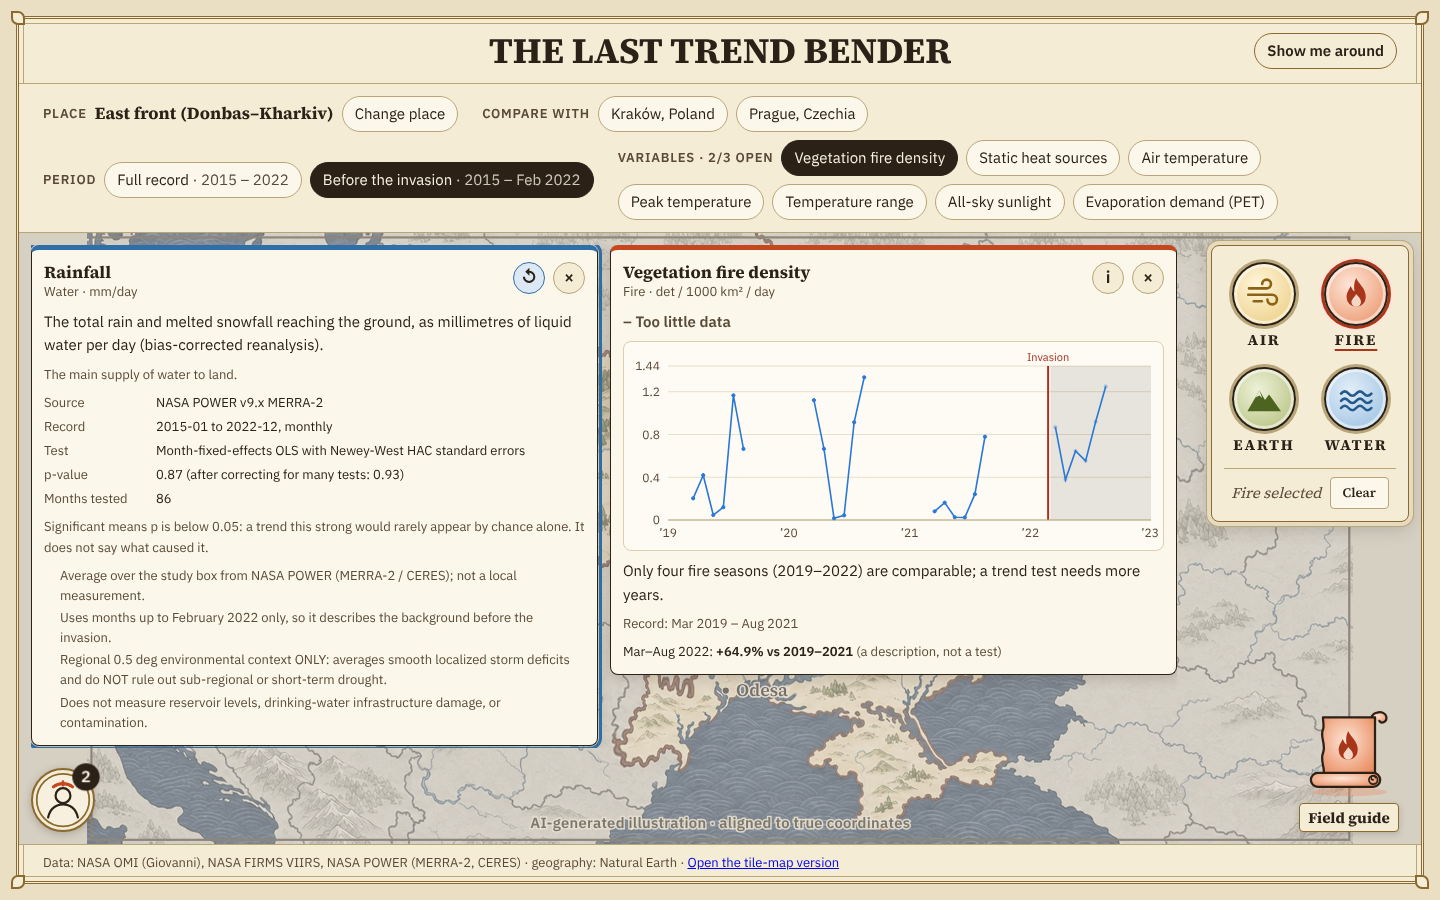
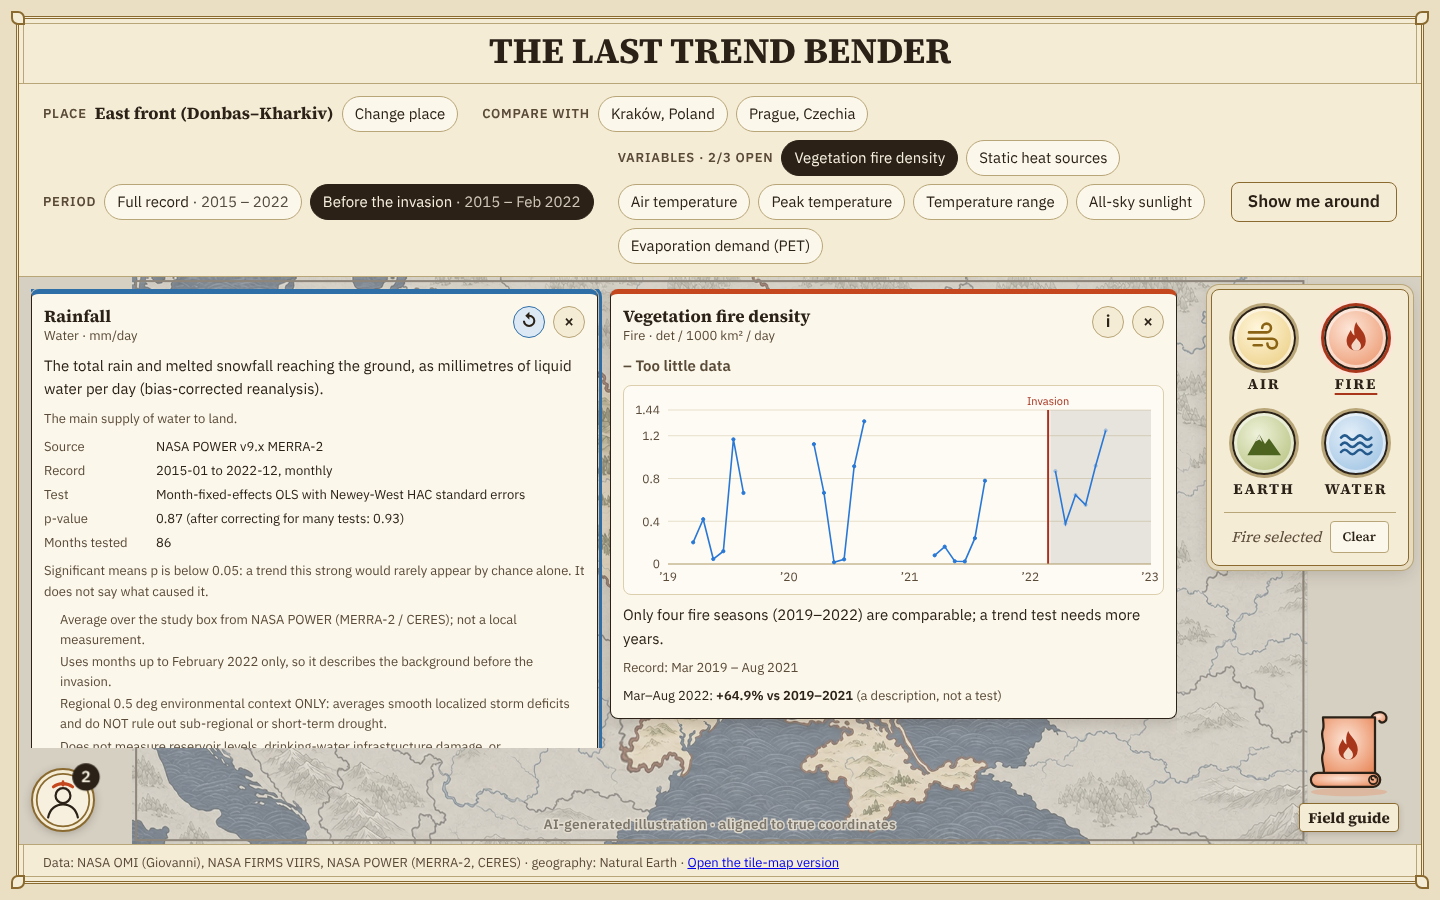
Replace Start guided example with Show me around
- The tour button takes the guided example's place on the start screen and sits
  at the end of the evidence bar; the header button and the example are removed
- Tests open Kyiv NO2, wind and cloud by hand; docs updated

Claude-Session: https://claude.ai/code/session_012Us5a758WNvjHB2vLoi81e

diff --git a/frontend/src/features/investigate/InvestigationAtlas.tsx b/frontend/src/features/investigate/InvestigationAtlas.tsx
@@ -24,14 +24,6 @@ export const MAX_CARDS = 3
 export const COMPARE_PLACES = ['poland_krakow', 'czechia_prague'] as const
 const ALL_ELEMENTS: ElementId[] = ['air', 'fire', 'land', 'water']
 
-/** The guided example: Kyiv NO₂ beside the two weather variables that most affect it. */
-export const GUIDED_EXAMPLE = {
-  place: 'kyiv_no2_box',
-  window: 'full_record' as WindowId,
-  element: 'air' as ElementId,
-  cards: ['no2_mean_molec_cm2', 'ws10m', 'cloud_amt'],
-}
-
 interface Props {
   cases: CatalogBundle
   catalog: VariableCatalog
@@ -60,7 +52,6 @@ export function InvestigationAtlas({ cases, catalog, trends, no2Regional = NO_RE
   /** The card the avatar reads (metric and place); the latest opened, or the one last clicked. */
   const [focus, setFocus] = useState<{ metric: string; place: string | null } | null>(null)
   const [notice, setNotice] = useState<string | null>(null)
-  const [example, setExample] = useState(false)
   const [scrollOpen, setScrollOpen] = useState(false)
   const [scrollTab, setScrollTab] = useState<'variables' | 'help'>('variables')
   const [insightsOpen, setInsightsOpen] = useState(false)
@@ -82,7 +73,6 @@ export function InvestigationAtlas({ cases, catalog, trends, no2Regional = NO_RE
   )
 
   const edit = () => {
-    setExample(false)
     setNotice(null)
   }
   const choosePlace = (id: string) => {
@@ -102,18 +92,6 @@ export function InvestigationAtlas({ cases, catalog, trends, no2Regional = NO_RE
     setCards((c) => [...c, v.metric_id])
     setFocus({ metric: v.metric_id, place })
   }
-  const startExample = () => {
-    setPlace(GUIDED_EXAMPLE.place)
-    setWindow(GUIDED_EXAMPLE.window)
-    setElement(GUIDED_EXAMPLE.element)
-    setCards(GUIDED_EXAMPLE.cards)
-    setFocus({ metric: GUIDED_EXAMPLE.cards[0] ?? '', place: GUIDED_EXAMPLE.place })
-    setCompare(null)
-    setNotice(null)
-    setPhase('investigate')
-    setExample(true)
-    setInsightsOpen(true)
-  }
 
   const cardState = (v: VariableEntry, at: string | null = place): SeriesState => {
     const s = states[endpointFor(v, at, no2Places)]
@@ -130,7 +108,7 @@ export function InvestigationAtlas({ cases, catalog, trends, no2Regional = NO_RE
   const speech = speechText({ phase, place, element, notice, openVars })
   // One insight per open card and place, built from that card's own fields; the focused card first.
   const insightGroups: InsightGroup[] = shownPlaces.map((at) => ({
-    label: compare && at ? placeLabel(at) : example ? 'Guided example: Kyiv city' : null,
+    label: compare && at ? placeLabel(at) : null,
     items: [...openVars]
       .sort((a, b) => Number(b === focusVar && at === focusPlace) - Number(a === focusVar && at === focusPlace))
       .filter((v) => cardState(v, at).status === 'ready')
@@ -153,9 +131,6 @@ export function InvestigationAtlas({ cases, catalog, trends, no2Regional = NO_RE
       <DecorativeFrame className={pageStyles.frame}>
         <header className={pageStyles.header}>
           <TitleBadge />
-          <button type="button" className={styles.tourButton} onClick={() => startTour(phase)} data-testid="show-me-around">
-            Show me around
-          </button>
         </header>
 
         <div className={pageStyles.controlsSlot}>
@@ -170,7 +145,7 @@ export function InvestigationAtlas({ cases, catalog, trends, no2Regional = NO_RE
                 <PeriodGroup window={window} onChange={(w) => { edit(); setWindow(w) }} label="2 · Period" />
                 <div className={styles.actions}>
                   <button type="button" className={styles.primary} onClick={investigate} data-testid="investigate" data-tour="investigate">Investigate</button>
-                  <button type="button" className={styles.secondary} onClick={startExample} data-testid="guided-example">Start guided example</button>
+                  <button type="button" className={styles.secondary} onClick={() => startTour('choose')} data-testid="show-me-around">Show me around</button>
                 </div>
               </>
             ) : (
@@ -183,6 +158,9 @@ export function InvestigationAtlas({ cases, catalog, trends, no2Regional = NO_RE
                 <CompareGroup compare={compare} onChange={(c) => { edit(); setCompare(c) }} />
                 <PeriodGroup window={window} onChange={(w) => { edit(); setWindow(w) }} label="Period" />
                 <VariablePicker catalog={catalog} element={element} place={place} no2Places={no2Places} cards={cards} onToggle={toggleCard} />
+                <div className={styles.actions}>
+                  <button type="button" className={styles.secondary} onClick={() => startTour('investigate')} data-testid="show-me-around">Show me around</button>
+                </div>
               </>
             )}
           </div>
@@ -457,7 +435,7 @@ function HowToRead() {
 function speechText({ phase, place, element, notice, openVars }: { phase: Phase; place: string | null; element: ElementId | null; notice: string | null; openVars: VariableEntry[] }): string | null {
   if (notice) return notice
   if (phase === 'choose') {
-    if (!place) return 'Press a place on the map, or start the guided example. Each place is a study box; its true size appears when you point at it.'
+    if (!place) return 'Press a place on the map, or press Show me around for a quick tour. Each place is a study box; its true size appears when you point at it.'
     return `${placeLabel(place)} is chosen. Pick a period and press Investigate.`
   }
   if (!openVars.length) return element ? 'Pick variables in the bar above.' : 'Choose an element at the top right. The field guide explains its variables.'

diff --git a/frontend/e2e/atlas.spec.ts b/frontend/e2e/atlas.spec.ts
@@ -8,6 +8,14 @@ async function open(page: Page) {
   await expect(page.getByTestId('place-kyiv_no2_box')).toBeVisible()
 }
 
+/** Kyiv city, full record, Air: NO₂ beside wind and cloud. */
+async function openKyivAir(page: Page) {
+  await page.getByTestId('place-kyiv_no2_box').click()
+  await page.getByTestId('investigate').click()
+  await page.getByTestId('element-air').click()
+  for (const id of ['no2_mean_molec_cm2', 'ws10m', 'cloud_amt']) await page.getByTestId(`variable-${id}`).click()
+}
+
 test('phase 1: fixed illustrated map with place pins, no tiles, no cards', async ({ page }) => {
   const tiles: string[] = []
   page.on('request', (r) => { if (/tile|arcgisonline/.test(r.url())) tiles.push(r.url()) })
@@ -143,22 +151,24 @@ test('dated periods and the Kraków comparison: temperature data, fire not colle
   await expect(other.getByTestId('card-t2m').getByTestId('trend-chart')).toBeVisible()
 })
 
-test('guided example: Kyiv NO₂ with wind and cloud, numbers from the API', async ({ page }) => {
+test('Kyiv NO₂ with wind and cloud: numbers from the API, insights from the portrait', async ({ page }) => {
   await page.setViewportSize({ width: 1440, height: 900 })
   await open(page)
-  await page.getByTestId('guided-example').click()
+  await openKyivAir(page)
   const no2 = page.getByTestId('card-no2_mean_molec_cm2')
   await expect(no2.getByTestId('card-verdict')).toHaveText('○ No significant trend')
   await expect(no2.getByTestId('card-rate')).toContainText('−0.0418 ×10¹⁵ molecules/cm² per year')
   await expect(no2.getByTestId('card-seasonal')).toContainText('−28.0% vs 2015–2019')
   await expect(page.getByTestId('card-ws10m').getByTestId('card-verdict')).toBeVisible()
   await expect(page.getByTestId('card-cloud_amt').getByTestId('card-verdict')).toBeVisible()
-  // the example opens the guide's insights, one per card
+  // the portrait opens the guide's insights, one per card
+  await expect(page.getByTestId('avatar-badge')).toHaveText('3')
+  await page.getByTestId('avatar-button').click()
   const panel = page.getByTestId('avatar-panel')
   await expect(panel.getByTestId('insight-no2_mean_molec_cm2-kyiv_no2_box')).toContainText('averaged 28% below the 2015–2019 average')
   await expect(page.getByTestId('avatar-badge')).toHaveText('3')
   await page.waitForTimeout(400)
-  await page.screenshot({ path: `${SHOTS}/2-guided-example-desktop.png` })
+  await page.screenshot({ path: `${SHOTS}/2-kyiv-insights-desktop.png` })
   // folded back to the portrait, the guide never hides a chart at this size
   await page.getByTestId('avatar-close').click()
   await expect(panel).toHaveCount(0)
@@ -176,10 +186,10 @@ test('guided example: Kyiv NO₂ with wind and cloud, numbers from the API', asy
 test('mobile: cards stack under the map with no sideways scroll', async ({ page }) => {
   await page.setViewportSize({ width: 390, height: 844 })
   await open(page)
-  await page.getByTestId('guided-example').click()
+  await openKyivAir(page)
   await expect(page.getByTestId('card-no2_mean_molec_cm2').getByTestId('card-verdict')).toBeVisible()
   expect(await page.evaluate(() => document.documentElement.scrollWidth - window.innerWidth)).toBeLessThanOrEqual(0)
-  await page.screenshot({ path: `${SHOTS}/4-guided-example-mobile.png`, fullPage: true })
+  await page.screenshot({ path: `${SHOTS}/4-cards-mobile.png`, fullPage: true })
 })
 
 test('the field guide: variables of the chosen element with definitions, how to read, Escape closes', async ({ page }) => {
@@ -232,8 +242,7 @@ test('Show me around: a tour of the current controls, without changing anything,
   await expect(popover).toHaveCount(0)
 
   // after Investigate the tour explains the evidence screen and skips nothing on screen
-  await page.getByTestId('guided-example').click()
-  await page.getByTestId('avatar-close').click()
+  await openKyivAir(page)
   await page.getByTestId('show-me-around').click()
   await expect(popover).toContainText('Variables')
   await expect(popover).toContainText('1 of 7')

diff --git a/frontend/src/features/investigate/Investigation.test.tsx b/frontend/src/features/investigate/Investigation.test.tsx
@@ -150,16 +150,20 @@ describe('phase 2: variables as cards', () => {
     expect(screen.getAllByRole('article')).toHaveLength(2)
   })
 
-  it('the guided example opens Kyiv NO₂ with wind and cloud, and the guide quotes the card', async () => {
+  it('Kyiv NO₂ with wind and cloud: the portrait quotes each card', async () => {
     serve()
     const user = await openAtlas()
-    await user.click(screen.getByTestId('guided-example'))
+    await user.click(screen.getByTestId('place-kyiv_no2_box'))
+    await user.click(screen.getByTestId('investigate'))
+    await user.click(screen.getByTestId('element-air'))
+    for (const id of ['no2_mean_molec_cm2', 'ws10m', 'cloud_amt']) await user.click(screen.getByTestId(`variable-${id}`))
     const no2 = screen.getByTestId('card-no2_mean_molec_cm2')
     expect(await within(no2).findByTestId('card-verdict')).toHaveTextContent('No significant trend')
     expect(within(no2).getByTestId('card-seasonal')).toHaveTextContent('−28.0% vs 2015–2019')
     expect(screen.getByTestId('card-ws10m')).toBeInTheDocument()
     expect(screen.getByTestId('card-cloud_amt')).toBeInTheDocument()
-    // the example opens the guide's insights: one per card, read from the card's own fields
+    // the portrait opens the guide's insights: one per card, read from the card's own fields
+    await user.click(screen.getByTestId('avatar-button'))
     const panel = await screen.findByTestId('avatar-panel')
     expect(await within(panel).findByTestId('insight-no2_mean_molec_cm2-kyiv_no2_box')).toHaveTextContent('did not detect a clear trend over Mar 2015 – Aug 2022')
     expect(within(panel).getByTestId('insight-no2_mean_molec_cm2-kyiv_no2_box')).toHaveTextContent('Separately, March–August 2022 averaged 28% below')

diff --git a/frontend/src/features/investigate/InvestigationAtlas.module.css b/frontend/src/features/investigate/InvestigationAtlas.module.css
@@ -82,10 +82,3 @@
   background: rgba(251, 247, 234, 0.95); border: 1px solid var(--color-line-strong); border-radius: var(--radius-sm); color: var(--color-ink); pointer-events: none;
 }
 .outsideMarker[data-off-map='true'] { transform: translate(0, -50%); border-style: dashed; }
-
-.tourButton {
-  position: absolute; right: var(--space-5); top: 50%; transform: translateY(-50%); min-height: 36px; padding: 0 var(--space-3);
-  cursor: pointer; font: inherit; font-size: var(--text-sm); font-weight: 600;
-  background: var(--color-parchment); color: var(--color-ink); border: 1.5px solid var(--color-gilt); border-radius: 999px;
-}
-.tourButton:focus-visible { outline: 3px solid var(--focus-ring); outline-offset: 2px; }

diff --git a/docs/submission/status-report.md b/docs/submission/status-report.md
@@ -23,7 +23,7 @@ Deadline: **Sunday 15 November, 23:59 local time**. Press "Submit for Judging" b
 | Test significance (t-test, Mann-Kendall, confidence intervals) | Done | Regression t-test with robust errors, confidence interval, Mann-Kendall stored as a check, correction for many tests |
 | What, where, how much, is it significant | Done | The four parts of each card |
 | Simple definitions of the variables | Done, in draft | 25 definitions on the card backs; not yet reviewed by the team |
-| Demonstration examples the user can watch | Partly | One guided example (Kyiv). The challenge says "a couple" |
+| Demonstration examples the user can watch | Partly | "Show me around" tours of both screens; the demo deck walks through Kyiv. No playable example in the app |
 | Trends that differ between regions | Done | Prague falls significantly; Ukrainian places do not |
 | Non-significant trends are still interesting | Done | Shown with their rate and an explanation |
 | Seasonal cycle removed | Done | One offset per calendar month |
@@ -42,13 +42,13 @@ Deadline: **Sunday 15 November, 23:59 local time**. Press "Submit for Judging" b
 
 - Data pipeline for NO₂ (8 places), fire, and 22 weather, water and earth variables.
 - Trend verdicts for all 392 place × variable × period combinations (368 tested, 24 with too little data).
-- Atlas web app: two-step flow, cards, guided example, "How to read" guide, mobile layout.
+- Atlas web app: two-step flow, cards, compare view, portrait insights, field guide, "Show me around" tour.
 - Tests: 48 analysis, 66 backend, 50 frontend unit, 23 browser. All pass, including the fire tests with the raw download.
 
 ## Not complete
 
 1. **Hosted demo link.** The app needs a backend, so it is not yet a single public URL.
-2. **Second guided example** (the city comparison).
+2. **A playable example in the app** (removed in favour of the tour; the deck covers it).
 3. **Team review of the 25 definitions.**
 4. **Husam's review** of decisions D4, D5 and D6.
 5. **An "after the invasion" view** and **one picker for all variables**: offered, not built.

diff --git a/frontend/README.md b/frontend/README.md
@@ -9,7 +9,7 @@ Requires Node ≥ 20.19 and, for the backend, Python with `pip install -r backen
 
 On Windows use `python` (not `python3`) for the backend and open `http://localhost:5173/#/atlas`.
 
-**Atlas flow:** phase 1, press a place pin (or Kraków/Prague in the bar), pick a period, press Investigate (or *Start guided example*). Phase 2, choose an element (top right), tick up to 4 variables; each opens as a card: timeline with the invasion marked, verdict (● significant, ○ not significant, – not assessed), rate with 95% range, descriptive Mar–Aug 2022 change; *i* turns the card over (definition, source, test, limits). Verdicts come from `/api/trends` (`docs/trend-results-schema.md`); without a result a card says "Not assessed".
+**Atlas flow:** phase 1, press a place pin (or Kraków/Prague in the bar), pick a period, press Investigate (or *Show me around* for a tour of the controls). Phase 2, choose an element (top right), tick up to 4 variables; each opens as a card: timeline with the invasion marked, verdict (● significant, ○ not significant, – not assessed), rate with 95% range, descriptive Mar–Aug 2022 change; *i* turns the card over (definition, source, test, limits). Verdicts come from `/api/trends` (`docs/trend-results-schema.md`); without a result a card says "Not assessed".
 
 Who does what next: [`docs/team-handoff.md`](../docs/team-handoff.md). Plain definitions of the 25 variables: [`docs/variable-definitions.md`](../docs/variable-definitions.md).
 

diff --git a/docs/decisions.md b/docs/decisions.md
@@ -8,7 +8,7 @@ Newest first. Husam has not yet reviewed the entries marked **needs review**.
 ### D13. Wide painted map and a "Show me around" tour
 - **Decided by:** G.
 - **Map:** a new wide painting with grey-blue neighbours and no labels, fitted to the true border (median about 3 atlas units; `docs/base-map.md`). The map window widened so it fills wide screens; our own labels sit at true coordinates.
-- **Tour:** "Show me around" (Driver.js) highlights one control at a time with Next, Back, Close and Escape. It never changes a selection or loads data, and it skips controls not on screen. Seven stops before Investigate, seven after. "Start guided example" stays separate.
+- **Tour:** "Show me around" (Driver.js) highlights one control at a time with Next, Back, Close and Escape. It never changes a selection or loads data, and it skips controls not on screen. Seven stops before Investigate, seven after. It replaces "Start guided example", which was removed (G).
 - **Later:** a zoom on each card's chart (visual only; the verdict stays on the tested period).
 
 ### D12. Name, painted base map, portrait slot

diff --git a/docs/submission/demo-deck.md b/docs/submission/demo-deck.md
@@ -18,6 +18,6 @@ A built deck is in `demo-deck.pptx` / `demo-deck.pdf`; this file is its script.
 - **0:00** "We are **[team]**."
 - **0:02** "Our challenge: be an Earth system trend detective."
 - **0:05** "The Last Trend Bender: environmental fingerprints of war, seen from space."
-- **0:10** Screen recording: pick Kyiv, press the guided example, three cards open. "Pick a place, pick NASA variables. Each card shows the trend, the rate, and whether it is significant."
+- **0:10** Screen recording: pick Kyiv, choose Air, open NO₂, wind and cloud. "Pick a place, pick NASA variables. Each card shows the trend, the rate, and whether it is significant."
 - **0:20** Kharkiv and Prague cards side by side. "Kyiv and Kharkiv lost almost 30% of their NO₂ in 2022. But the only significant long-term trend is in Prague, and it started before the war. A shock is not a trend."
 - **0:27** "Built on open NASA data, for any region that needs the truth."

diff --git a/docs/submission/project-page.md b/docs/submission/project-page.md
@@ -36,7 +36,7 @@ https://github.com/ghefarshalhoup/war-environment-tracker
    - **Where?** The chosen place, drawn at its true size on the map.
    - **How much?** The rate per year with a 95% confidence range, and the change in March–August 2022 against earlier years.
    - **Is it significant?** A verdict symbol, the p-value, and the test used.
-4. **Watch a guided example.** One button opens Kyiv with NO₂, wind and cloud, and a guide explains what the cards show.
+4. **Take the tour.** "Show me around" highlights each control in turn with a short explanation, on the start screen and again on the evidence screen. It never changes what you selected.
 
 ### How it works
 
